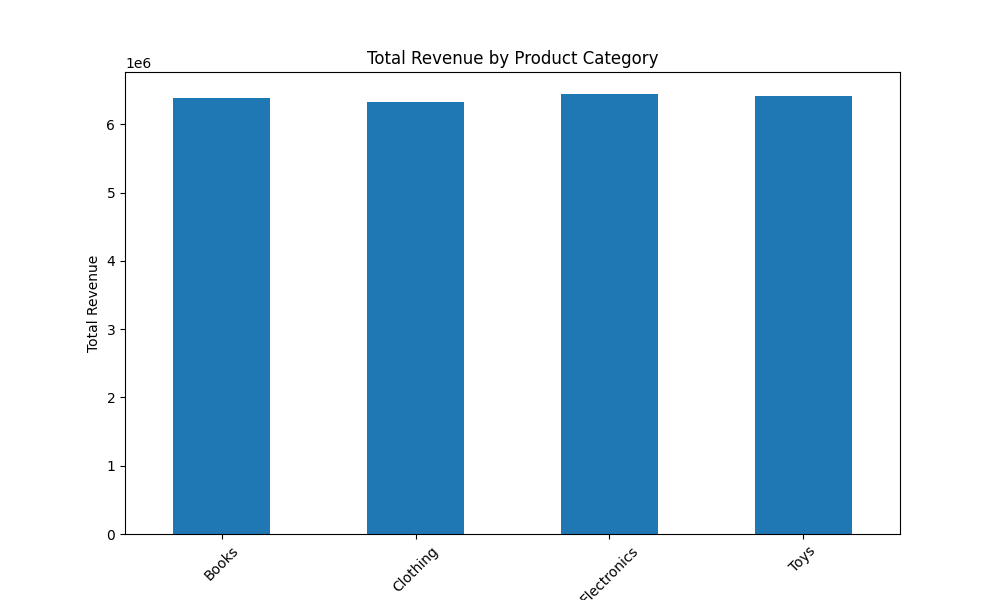
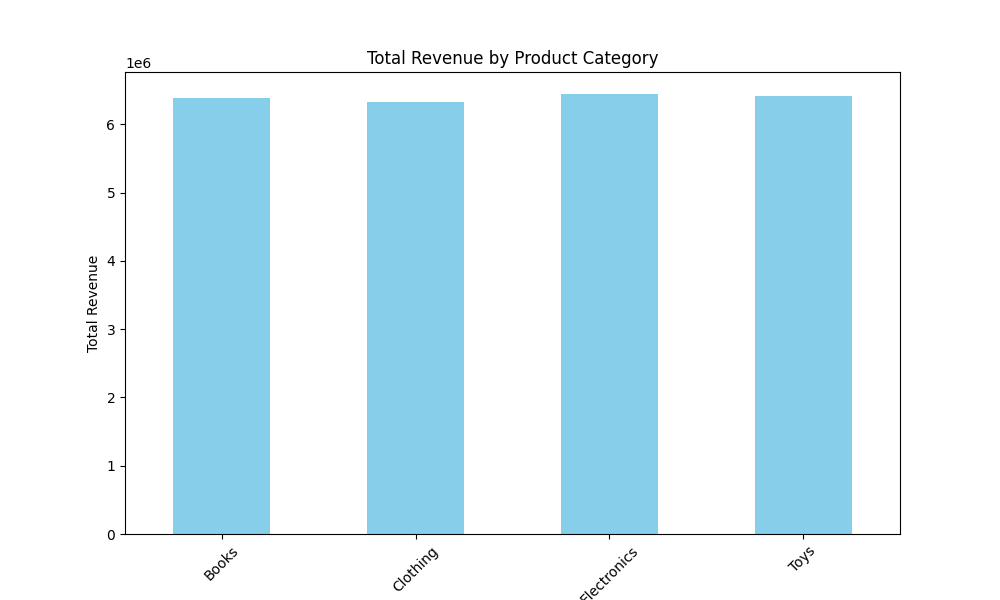
code and data update

diff --git a/sales.py b/sales.py
@@ -35,7 +35,7 @@ top_selling_category = df['Product Category'].value_counts().idxmax()
 # Create a bar chart for total revenue by product category
 category_revenue = df.groupby('Product Category')['Revenue'].sum()
 plt.figure(figsize=(10, 6))
-category_revenue.plot(kind='bar')
+category_revenue.plot(kind='bar', color='skyblue')  # Set the color to orange
 plt.xlabel('Product Category')
 plt.ylabel('Total Revenue')
 plt.title('Total Revenue by Product Category')
@@ -44,6 +44,20 @@ plt.xticks(rotation=45)
 # Save the chart as an image file
 plt.savefig('revenue_by_category.png')
 
+# Create a bar chart for monthly sales
+df['Date'] = pd.to_datetime(df['Date'])  # Convert 'Date' column to datetime
+df['Month'] = df['Date'].dt.to_period('M')  # Extract month and year
+monthly_sales = df.groupby('Month')['Revenue'].sum()
+plt.figure(figsize=(10, 6))
+monthly_sales.plot(kind='bar', color='orange')  # Set the color to orange
+plt.xlabel('Month')
+plt.ylabel('Total Sales')
+plt.title('Monthly Sales')
+plt.xticks(rotation=45)
+
+# Save the chart as an image file
+plt.savefig('monthly_sales.png')
+
 # Step 5: Save key metrics to a text file
 
 with open('key_metrics.txt', 'w') as file:
@@ -51,7 +65,7 @@ with open('key_metrics.txt', 'w') as file:
     file.write(f"Average Revenue per Order: ${average_revenue_per_order:.2f}\n")
     file.write(f"Top Selling Product Category: {top_selling_category}\n")
 
-# Display the chart (optional)
+# Display the charts (optional)
 plt.show()
 
 print("Data analysis and visualization completed.")
